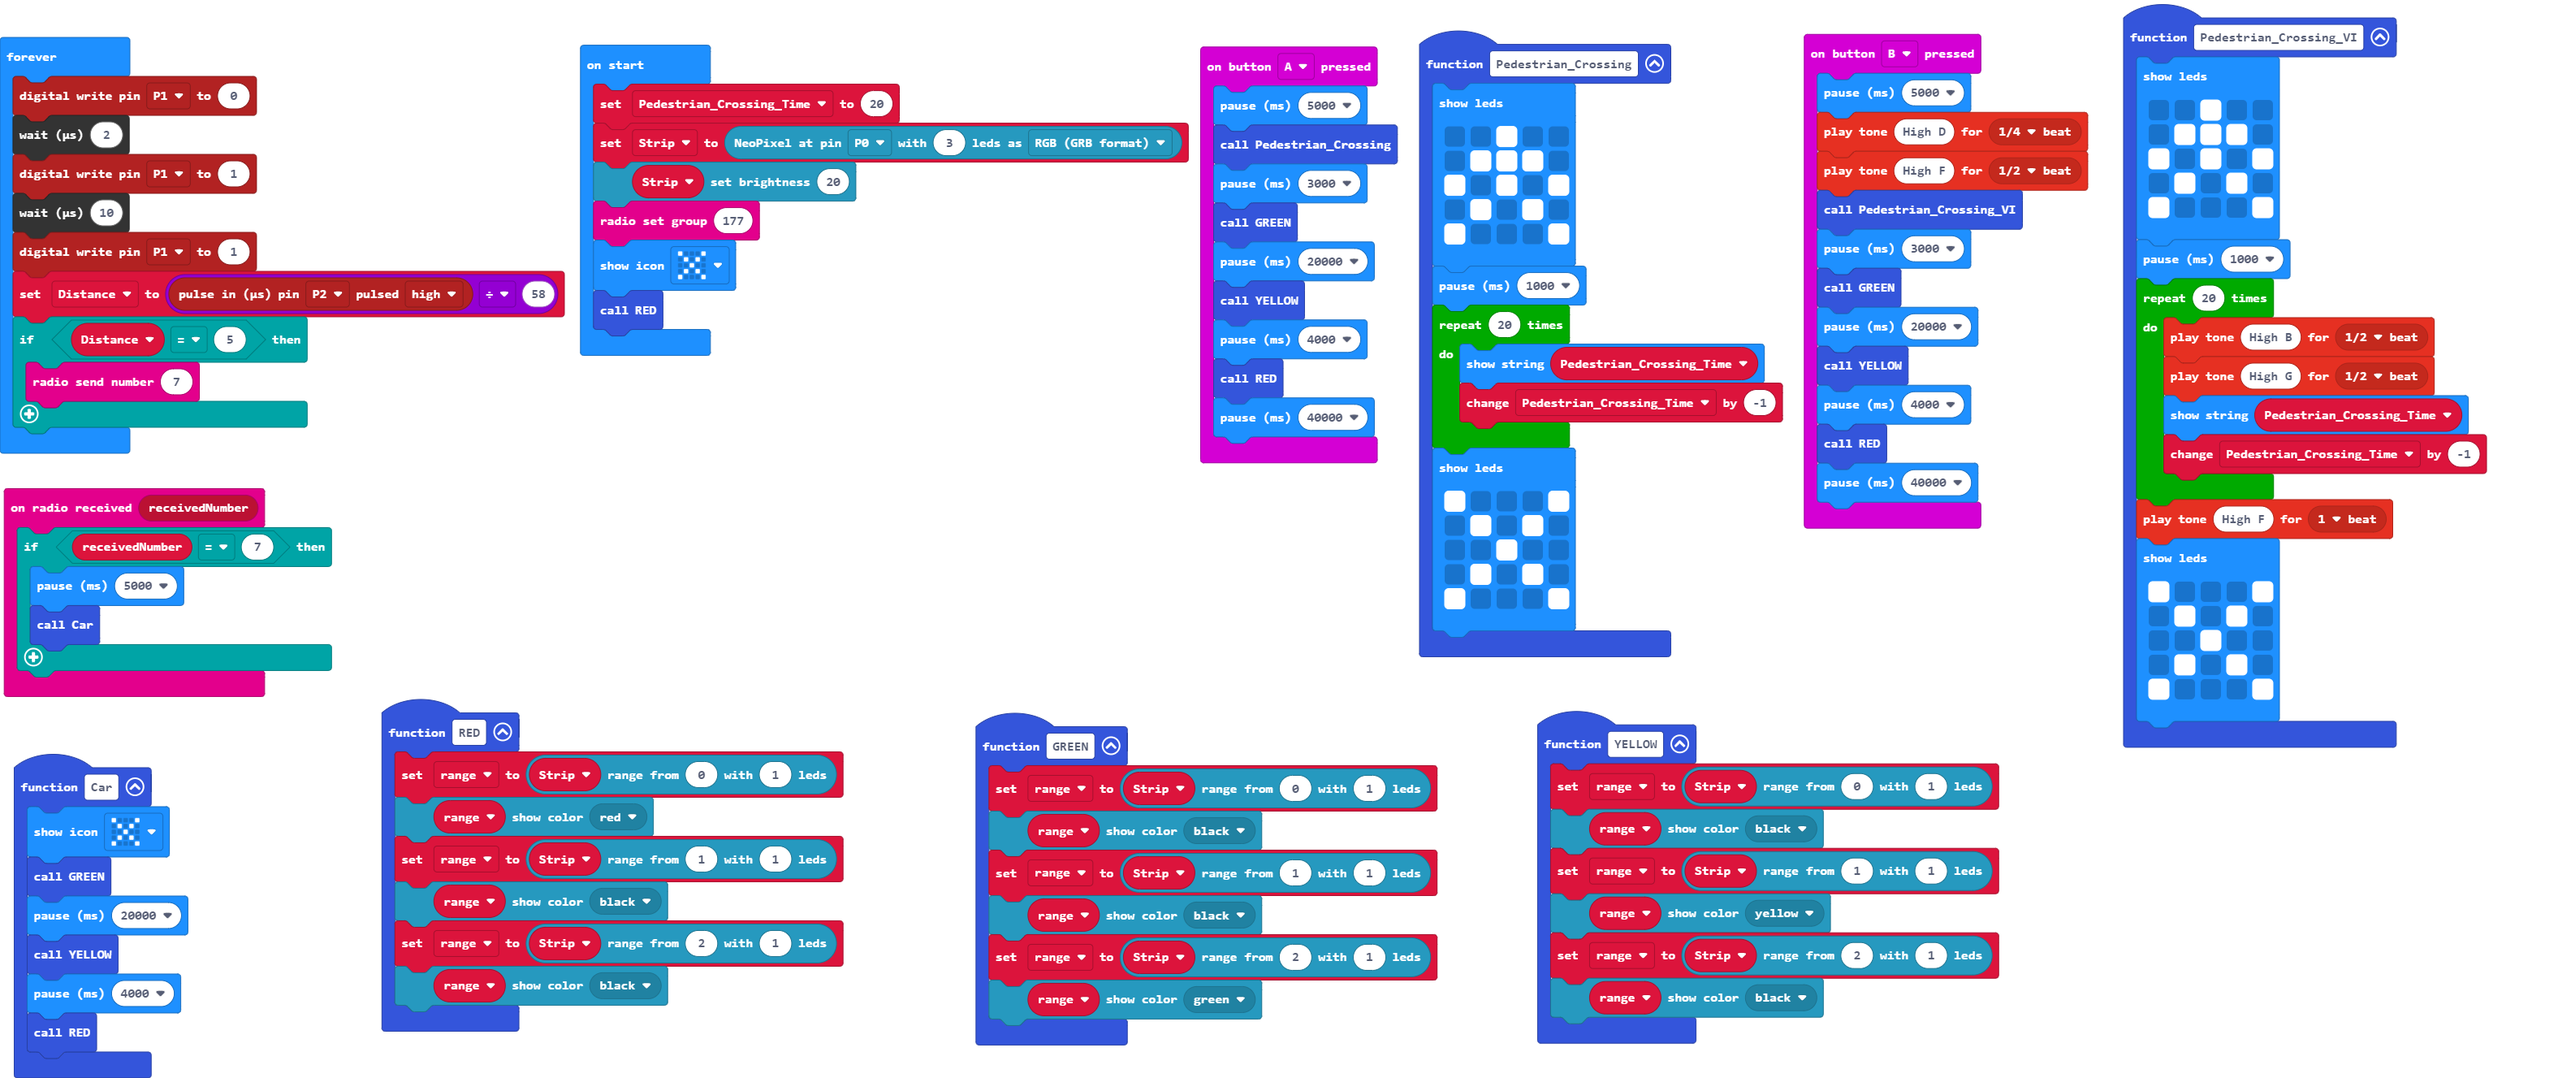
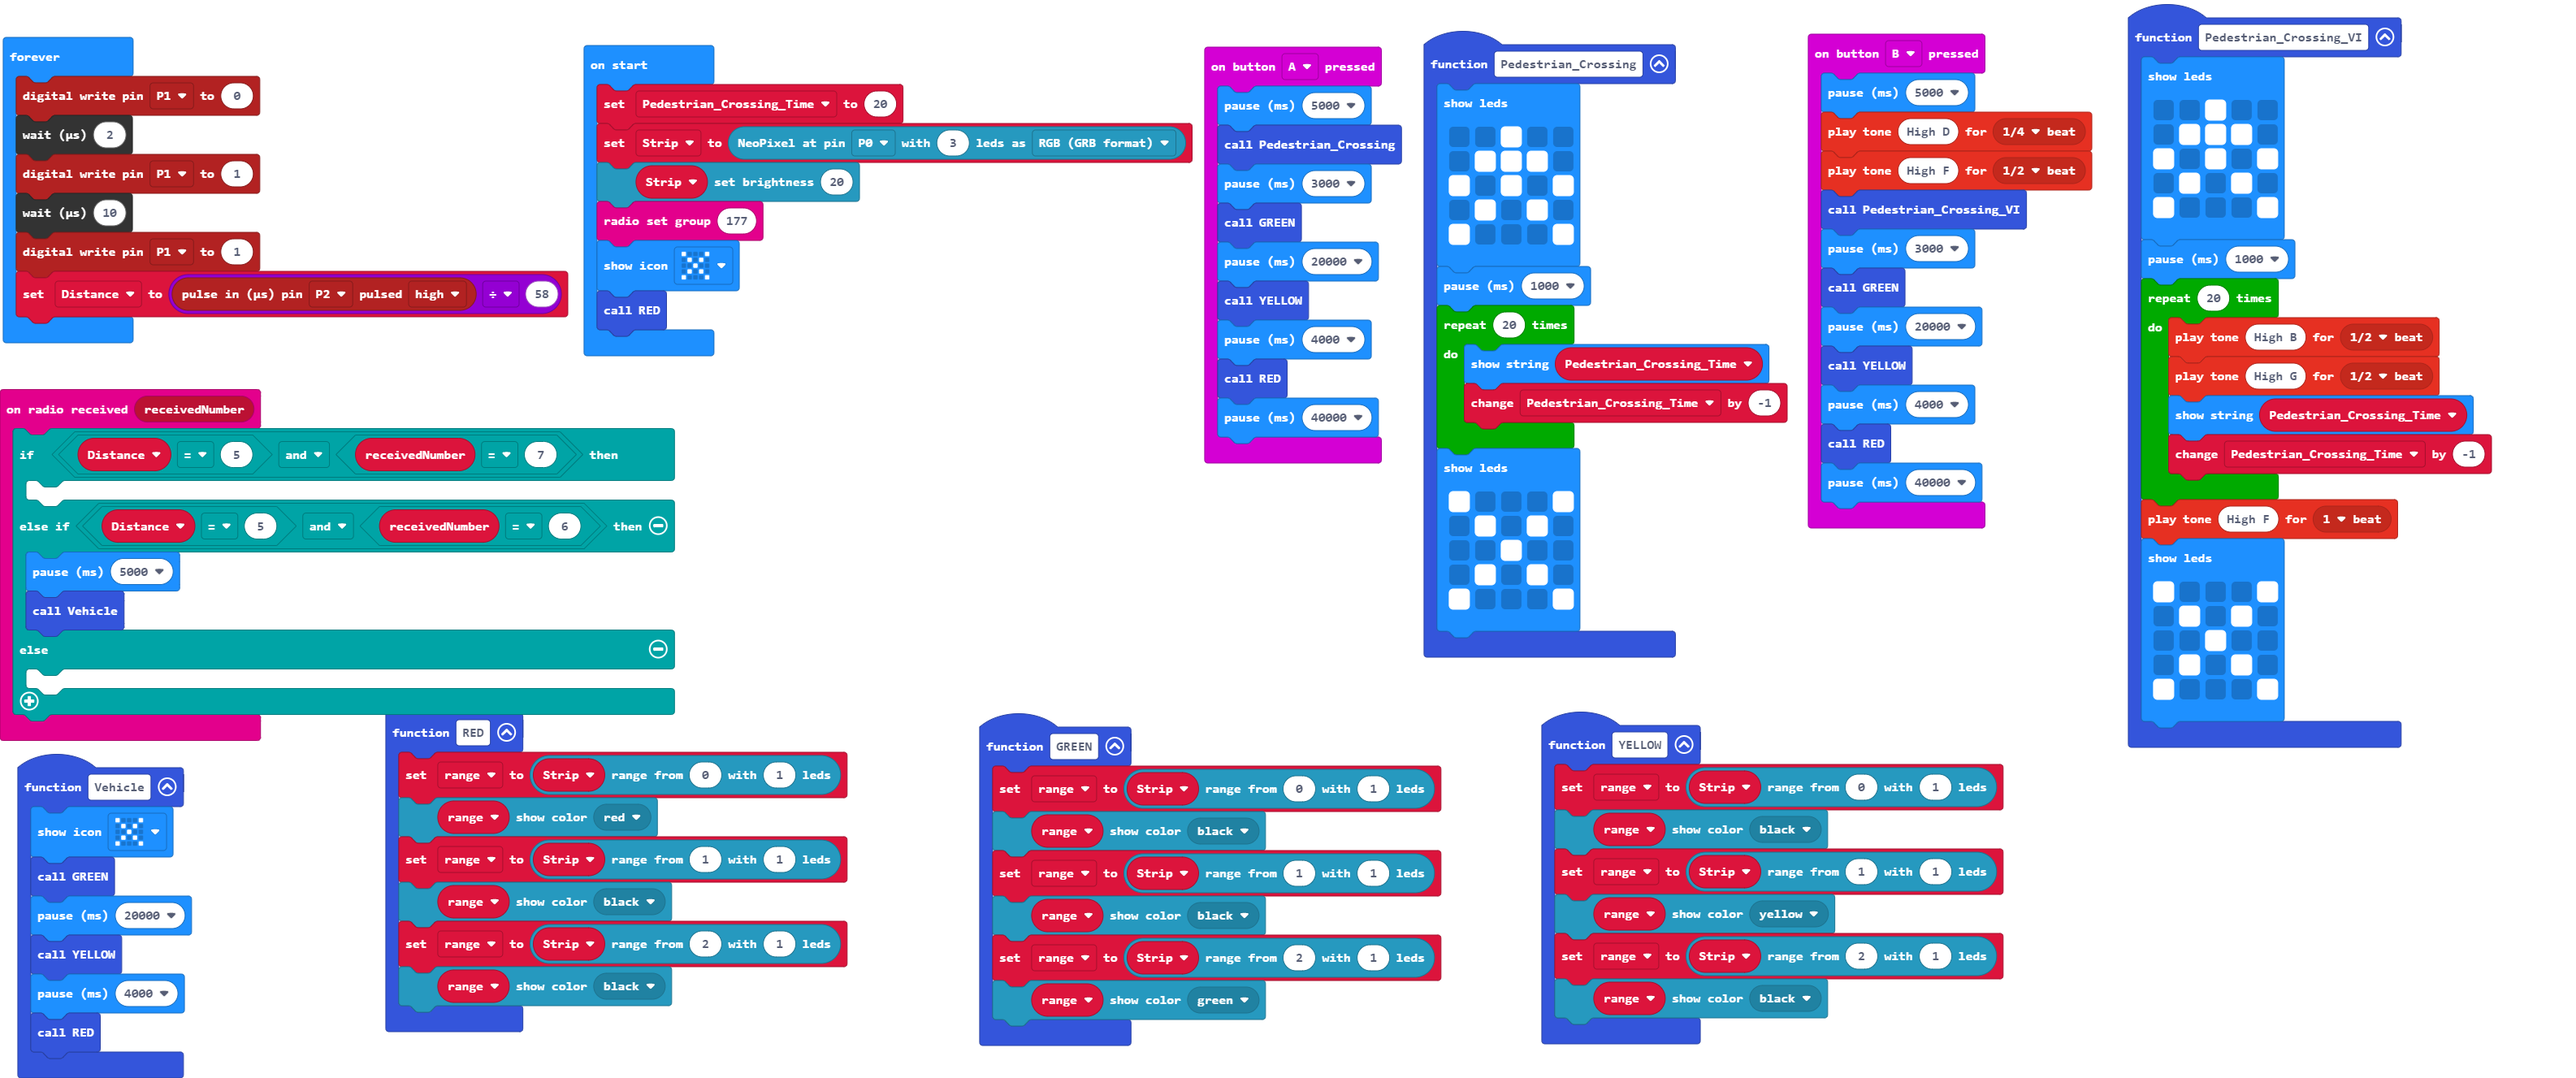
Update main.blocks, main.ts

diff --git a/main.ts b/main.ts
@@ -20,9 +20,13 @@ function Pedestrian_Crossing () {
         `)
 }
 radio.onReceivedNumber(function (receivedNumber) {
-    if (receivedNumber == 7) {
+    if (Distance == 5 && receivedNumber == 7) {
+    	
+    } else if (Distance == 5 && receivedNumber == 6) {
         basic.pause(5000)
-        Car()
+        Vehicle()
+    } else {
+    	
     }
 })
 input.onButtonPressed(Button.A, function () {
@@ -43,6 +47,14 @@ function RED () {
     range.showColor(neopixel.colors(NeoPixelColors.Black))
     range = Strip.range(2, 1)
     range.showColor(neopixel.colors(NeoPixelColors.Black))
+}
+function Vehicle () {
+    basic.showIcon(IconNames.No)
+    GREEN()
+    basic.pause(20000)
+    YELLOW()
+    basic.pause(4000)
+    RED()
 }
 function GREEN () {
     range = Strip.range(0, 1)
@@ -65,14 +77,6 @@ input.onButtonPressed(Button.B, function () {
     RED()
     basic.pause(40000)
 })
-function Car () {
-    basic.showIcon(IconNames.No)
-    GREEN()
-    basic.pause(20000)
-    YELLOW()
-    basic.pause(4000)
-    RED()
-}
 function Pedestrian_Crossing_VI () {
     basic.showLeds(`
         . . # . .
@@ -105,8 +109,8 @@ function YELLOW () {
     range = Strip.range(2, 1)
     range.showColor(neopixel.colors(NeoPixelColors.Black))
 }
-let Distance = 0
 let range: neopixel.Strip = null
+let Distance = 0
 let Strip: neopixel.Strip = null
 let Pedestrian_Crossing_Time = 0
 Pedestrian_Crossing_Time = 20
@@ -122,7 +126,4 @@ basic.forever(function () {
     control.waitMicros(10)
     pins.digitalWritePin(DigitalPin.P1, 1)
     Distance = pins.pulseIn(DigitalPin.P2, PulseValue.High) / 58
-    if (Distance == 5) {
-        radio.sendNumber(7)
-    }
 })
